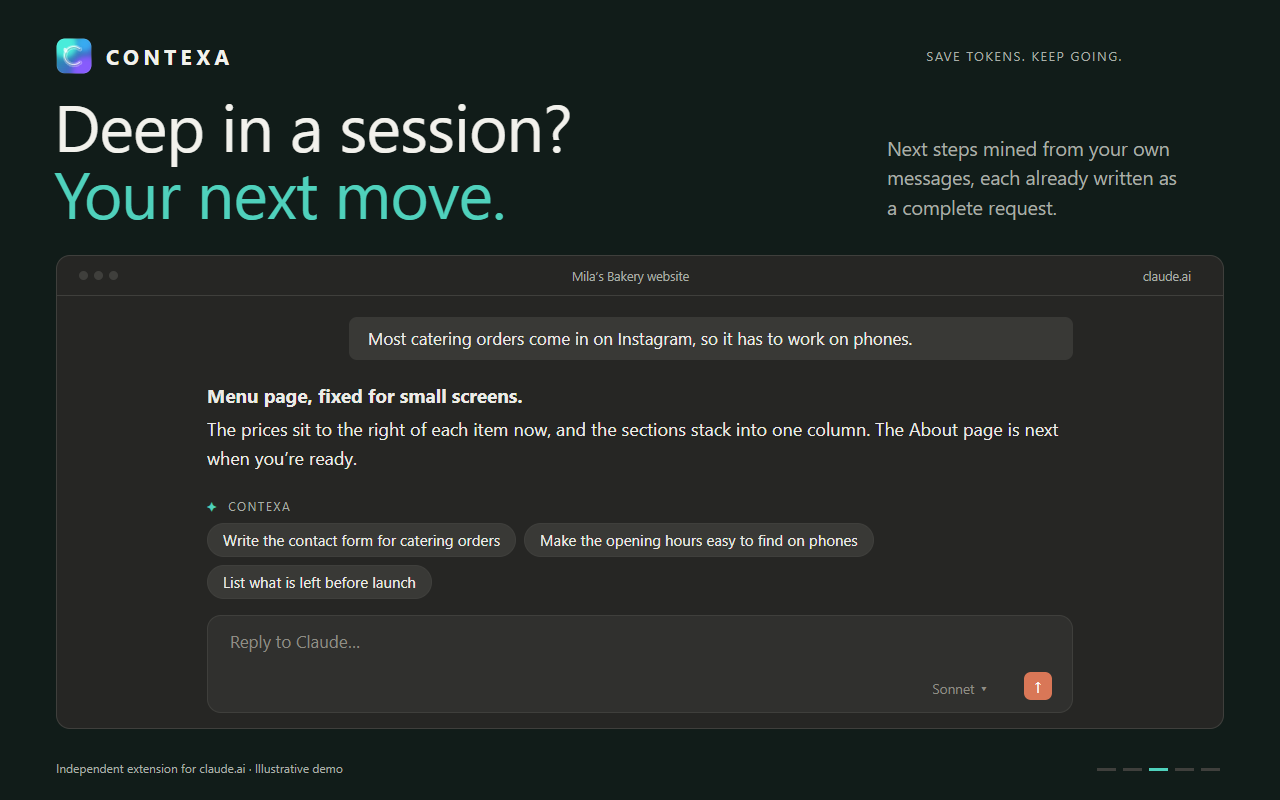
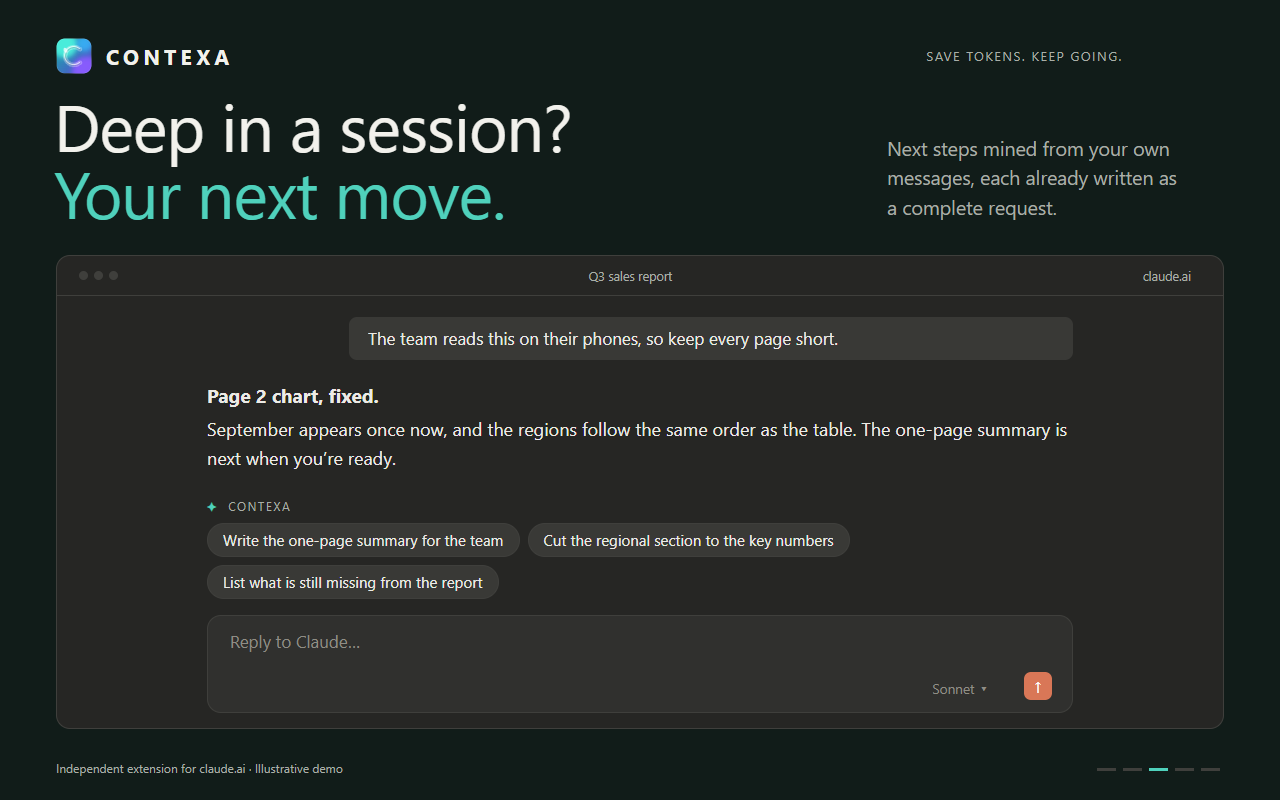
store set: a quarterly sales report instead of the bakery, no <paste here> in the example texts
The example session is now a long working session on a Q3 sales report. The
brief, the composed prompt and the marquee's brief no longer carry a
<paste here> slot; frame 2's side note is the only place it is named.

diff --git a/scripts/screenshots/slides.html b/scripts/screenshots/slides.html
@@ -13,9 +13,11 @@
   button, the mascot trigger, the row of moves. When any of those strings
   changes in content.js, change it here and re-render.
 
-  One session runs through all five: a long build session for a bakery's
-  website, because the set leads with long sessions and a 689k-token thread
-  has to be a plausible one. No Anthropic wordmark or logo anywhere; claude.ai
+  One session runs through all five: a long working session on a quarterly
+  sales report, because the set leads with long sessions and a 689k-token
+  thread has to be a plausible one. The example texts never carry a
+  <paste here> slot; frame 2's side note is the only place it is named.
+  No Anthropic wordmark or logo anywhere; claude.ai
   is named as the site the extension works on.
 -->
 <meta charset="utf-8">
@@ -113,10 +115,10 @@
   <h1>Long session?<em>Keep going.</em></h1>
   <p class="side">Every message re-reads the whole thread. Keep going carries it into a new chat as a short brief.</p>
   <div class="frame">
-    <div class="bar"><span class="d"><i></i><i></i><i></i></span><span>Mila’s Bakery website</span><span>claude.ai</span></div>
+    <div class="bar"><span class="d"><i></i><i></i><i></i></span><span>Q3 sales report</span><span>claude.ai</span></div>
     <div class="chat">
-      <div class="turn">The menu looks broken on my phone. Can you fix the prices?</div>
-      <div class="reply"><b>Menu page, fixed for small screens.</b>The prices sit to the right of each item now, and the sections stack into one column. The About page is next when you’re ready.</div>
+      <div class="turn">The chart on page 2 still shows September twice. Can you fix it?</div>
+      <div class="reply"><b>Page 2 chart, fixed.</b>September appears once now, and the regions follow the same order as the table. The one-page summary is next when you’re ready.</div>
       <div class="label"><b>✦</b> CONTEXA <span class="cost">≈ 689k tokens re-read per send <button class="hot">Keep going</button></span></div>
       <div class="mascot"><svg><use href="#mascot"/></svg></div>
       <div class="box" style="margin-top:10px">Reply to Claude…<span class="m">Sonnet ▾</span><span class="go">↑</span></div>
@@ -145,14 +147,14 @@
     <div class="bar"><span class="d"><i></i><i></i><i></i></span><span>New chat</span><span>claude.ai</span></div>
     <div class="nc">
       <div class="hd"><span>NEW CHAT</span><span>Brief inserted · not sent</span></div>
-      <div class="box full">Goal: a website for Mila’s Bakery — menu, catering orders, opening hours.
+      <div class="box full">Goal: the Q3 sales report for the team — five pages, due Friday.
 Settled:
-• Plain HTML and CSS, no framework
-• Teal and cream, the logo from the shop sign
-• Catering orders by form, not by phone
+• Regions in the same order everywhere: North, South, West
+• Charts show quarters, not months
+• One page of summary at the front
 Exists now:
-• Home, Menu and About pages <span class="paste">&lt;paste here&gt;</span>
-Next: write the contact form for catering orders.<span class="m">Sonnet ▾</span><span class="go">↑</span></div>
+• Pages 2 to 5, with their charts and tables
+Next: write the one-page summary for the team.<span class="m">Sonnet ▾</span><span class="go">↑</span></div>
     </div>
   </div>
   <div class="foot">Independent extension for claude.ai · Illustrative demo · measured figures from the listing</div>
@@ -166,15 +168,15 @@ Next: write the contact form for catering orders.<span class="m">Sonnet ▾</spa
   <h1>Deep in a session?<em>Your next move.</em></h1>
   <p class="side">Next steps mined from your own messages, each already written as a complete request.</p>
   <div class="frame">
-    <div class="bar"><span class="d"><i></i><i></i><i></i></span><span>Mila’s Bakery website</span><span>claude.ai</span></div>
+    <div class="bar"><span class="d"><i></i><i></i><i></i></span><span>Q3 sales report</span><span>claude.ai</span></div>
     <div class="chat">
-      <div class="turn">Most catering orders come in on Instagram, so it has to work on phones.</div>
-      <div class="reply"><b>Menu page, fixed for small screens.</b>The prices sit to the right of each item now, and the sections stack into one column. The About page is next when you’re ready.</div>
+      <div class="turn">The team reads this on their phones, so keep every page short.</div>
+      <div class="reply"><b>Page 2 chart, fixed.</b>September appears once now, and the regions follow the same order as the table. The one-page summary is next when you’re ready.</div>
       <div class="label"><b>✦</b> CONTEXA</div>
       <div class="chips">
-        <span class="chip">Write the contact form for catering orders</span>
-        <span class="chip">Make the opening hours easy to find on phones</span>
-        <span class="chip">List what is left before launch</span>
+        <span class="chip">Write the one-page summary for the team</span>
+        <span class="chip">Cut the regional section to the key numbers</span>
+        <span class="chip">List what is still missing from the report</span>
       </div>
       <div class="box">Reply to Claude…<span class="m">Sonnet ▾</span><span class="go">↑</span></div>
     </div>
@@ -190,16 +192,16 @@ Next: write the contact form for catering orders.<span class="m">Sonnet ▾</spa
   <h1>One click.<em>A complete prompt.</em></h1>
   <p class="side">One clear ask per message, so the next reply is an answer, not a question back.</p>
   <div class="frame">
-    <div class="bar"><span class="d"><i></i><i></i><i></i></span><span>Mila’s Bakery website</span><span>claude.ai</span></div>
+    <div class="bar"><span class="d"><i></i><i></i><i></i></span><span>Q3 sales report</span><span>claude.ai</span></div>
     <div class="chat">
-      <div class="reply" style="margin-top:0;font-size:17px;color:var(--muted)">You picked: Write the contact form for catering orders</div>
+      <div class="reply" style="margin-top:0;font-size:17px;color:var(--muted)">You picked: Write the one-page summary for the team</div>
       <div class="label" style="margin-top:14px"><b>✦</b> CONTEXA</div>
-      <div class="box full" style="margin-top:10px">Write the contact form for catering orders on the bakery site.
-• Fields: name, phone, date of the event, number of guests, what they’d like
-• Same teal and cream as the other pages, plain HTML and CSS
-• It has to work on a phone first
+      <div class="box full" style="margin-top:10px">Write a one-page summary of the Q3 sales report for the team.
+• Open with the three numbers that changed most since Q2
+• One short paragraph per region, in the same order as the table
+• End with the two decisions we still have to make
 
-Orders go to <span class="paste">&lt;paste here&gt;</span> — no payment on the site.<span class="m">Sonnet ▾</span><span class="go">↑</span></div>
+Keep it easy to read on a phone, with no tables in the summary.<span class="m">Sonnet ▾</span><span class="go">↑</span></div>
     </div>
   </div>
   <div class="foot">Independent extension for claude.ai · Illustrative demo</div>
@@ -213,10 +215,10 @@ Orders go to <span class="paste">&lt;paste here&gt;</span> — no payment on the
   <h1>Ready when<em>you ask.</em></h1>
   <p class="side">Nothing goes to CONTEXA until you click. You choose every message you send.</p>
   <div class="frame">
-    <div class="bar"><span class="d"><i></i><i></i><i></i></span><span>Mila’s Bakery website</span><span>claude.ai</span></div>
+    <div class="bar"><span class="d"><i></i><i></i><i></i></span><span>Q3 sales report</span><span>claude.ai</span></div>
     <div class="chat">
-      <div class="turn">The menu looks broken on my phone. Can you fix the prices?</div>
-      <div class="reply"><b>Menu page, fixed for small screens.</b>The prices sit to the right of each item now, and the sections stack into one column. The About page is next when you’re ready.</div>
+      <div class="turn">The chart on page 2 still shows September twice. Can you fix it?</div>
+      <div class="reply"><b>Page 2 chart, fixed.</b>September appears once now, and the regions follow the same order as the table. The one-page summary is next when you’re ready.</div>
       <div class="label"><b>✦</b> CONTEXA</div>
       <div class="mascot"><svg><use href="#mascot"/></svg><span class="ask">What now? ✦</span></div>
       <div class="box" style="margin-top:12px">Reply to Claude…<span class="m">Sonnet ▾</span><span class="go">↑</span></div>

diff --git a/scripts/promo/tiles.html b/scripts/promo/tiles.html
@@ -10,7 +10,7 @@
   Everything shown is the product as it ships at 0.9.98 — the "✦ CONTEXA"
   label, the cost line and its Keep going button, the brief landed in a new
   chat — drawn with the same tokens content.js uses (dark theme, brand teal
-  accent). The example is the bakery-website session the store screenshots
+  accent). The example is the sales-report session the store screenshots
   show (scripts/screenshots/slides.html), and 689k -> 441 is the measured pair
   from publishing/STORE-LISTING.md, so the tiles and the screenshots describe
   one product.
@@ -141,16 +141,16 @@
     <div class="frame">
       <div class="top">Claude</div>
       <div class="body">
-        <div class="turn"><span>Most catering orders come in on Instagram, so the menu has to work on phones.</span></div>
+        <div class="turn"><span>The team reads this on their phones, so keep every page short.</span></div>
         <div class="reply">
-          <p><strong>Menu page, fixed for small screens.</strong> The prices sit to the right of each item now, and the sections stack into one column.</p>
+          <p><strong>Page 2 chart, fixed.</strong> September appears once now, and the regions follow the same order as the table.</p>
         </div>
         <div class="label"><b>✦</b> CONTEXA <span class="cost"><span>≈ 689k tokens re-read per send</span><span class="btn hot">Keep going</span></span></div>
         <div class="nc">New chat · brief inserted, not sent · <b>689k → 441 tokens</b></div>
-        <div class="box">Goal: a website for Mila's Bakery — menu, catering orders, opening hours.
-Settled: plain HTML and CSS · teal and cream · catering by form
-Exists now: Home, Menu and About pages <span class="paste">&lt;paste here&gt;</span>
-Next: write the contact form for catering orders.<span class="send">▲</span></div>
+        <div class="box">Goal: the Q3 sales report for the team — five pages, due Friday.
+Settled: regions North, South, West · charts by quarter · summary up front
+Exists now: pages 2 to 5, with their charts and tables
+Next: write the one-page summary for the team.<span class="send">▲</span></div>
       </div>
     </div>
   </div>

diff --git a/CHANGELOG.md b/CHANGELOG.md
@@ -29,9 +29,9 @@ carries it verbatim, with the control renamed through the long description.
 
 The five store screenshots and both promo tiles are redone around the long
 session, with the largest measured thread (689k tokens, and the 441-token brief
-that replaced it) instead of the illustrative 14k. The example is a long build
-session for a bakery's website, because a 689k-token trip itinerary would not
-be believable. The screenshots now have a source in the repo —
+that replaced it) instead of the illustrative 14k. The example is a long working
+session on a quarterly sales report, because a 689k-token trip itinerary would
+not be believable, and no example text carries a `<paste here>` slot. The screenshots now have a source in the repo —
 `scripts/screenshots/slides.html`, rendered by `render-slides.mjs` — where the
 0.9.95 set had only PNGs; the frame-1 file is `1-keep-going.png`. The PNG
 re-encoding and browser launch are shared with the promo renderer in

diff --git a/publishing/screenshots/README.md b/publishing/screenshots/README.md
@@ -29,8 +29,9 @@ selectors. Only a live session proves those still match the site.
 | `5-trigger.png` | Ready when you ask. | the mascot as it arrives, before anything is asked or spent |
 
 **0.9.98 moved the set onto long sessions.** Start fresh became Keep going, the
-example became a long build session (a bakery's website; a 689k-token Lisbon
-itinerary was not believable), and the one number on the set is the largest one
+example became a long working session on a quarterly sales report (a 689k-token
+Lisbon itinerary was not believable), and the example texts carry no
+`<paste here>` slot; frame 2 names it once, in the side note, and the one number on the set is the largest one
 measured. Frame 2 is the only frame with a real figure on it, and says so.
 
 **The order is the argument, and it changed with 0.9.95.** The name and the short
